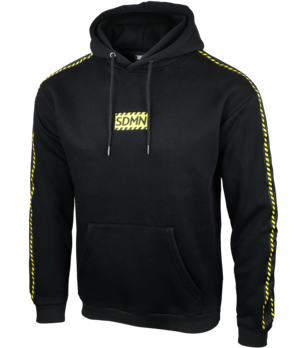
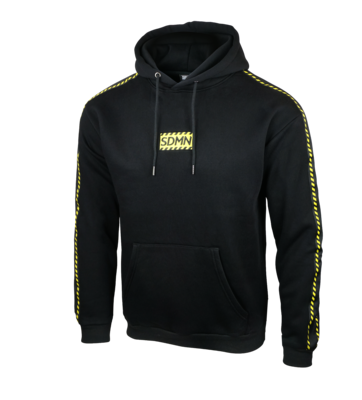
Reduced zoom and corrected size+background of images

diff --git a/assets/css/layout.css b/assets/css/layout.css
@@ -692,7 +692,7 @@ button:hover {
 }
 
 .img-hover-zoom:hover img {
-    transform: scale(1.5);
+    transform: scale(1.3);
 }
 
 .img-hover-zoom-little:hover img {
